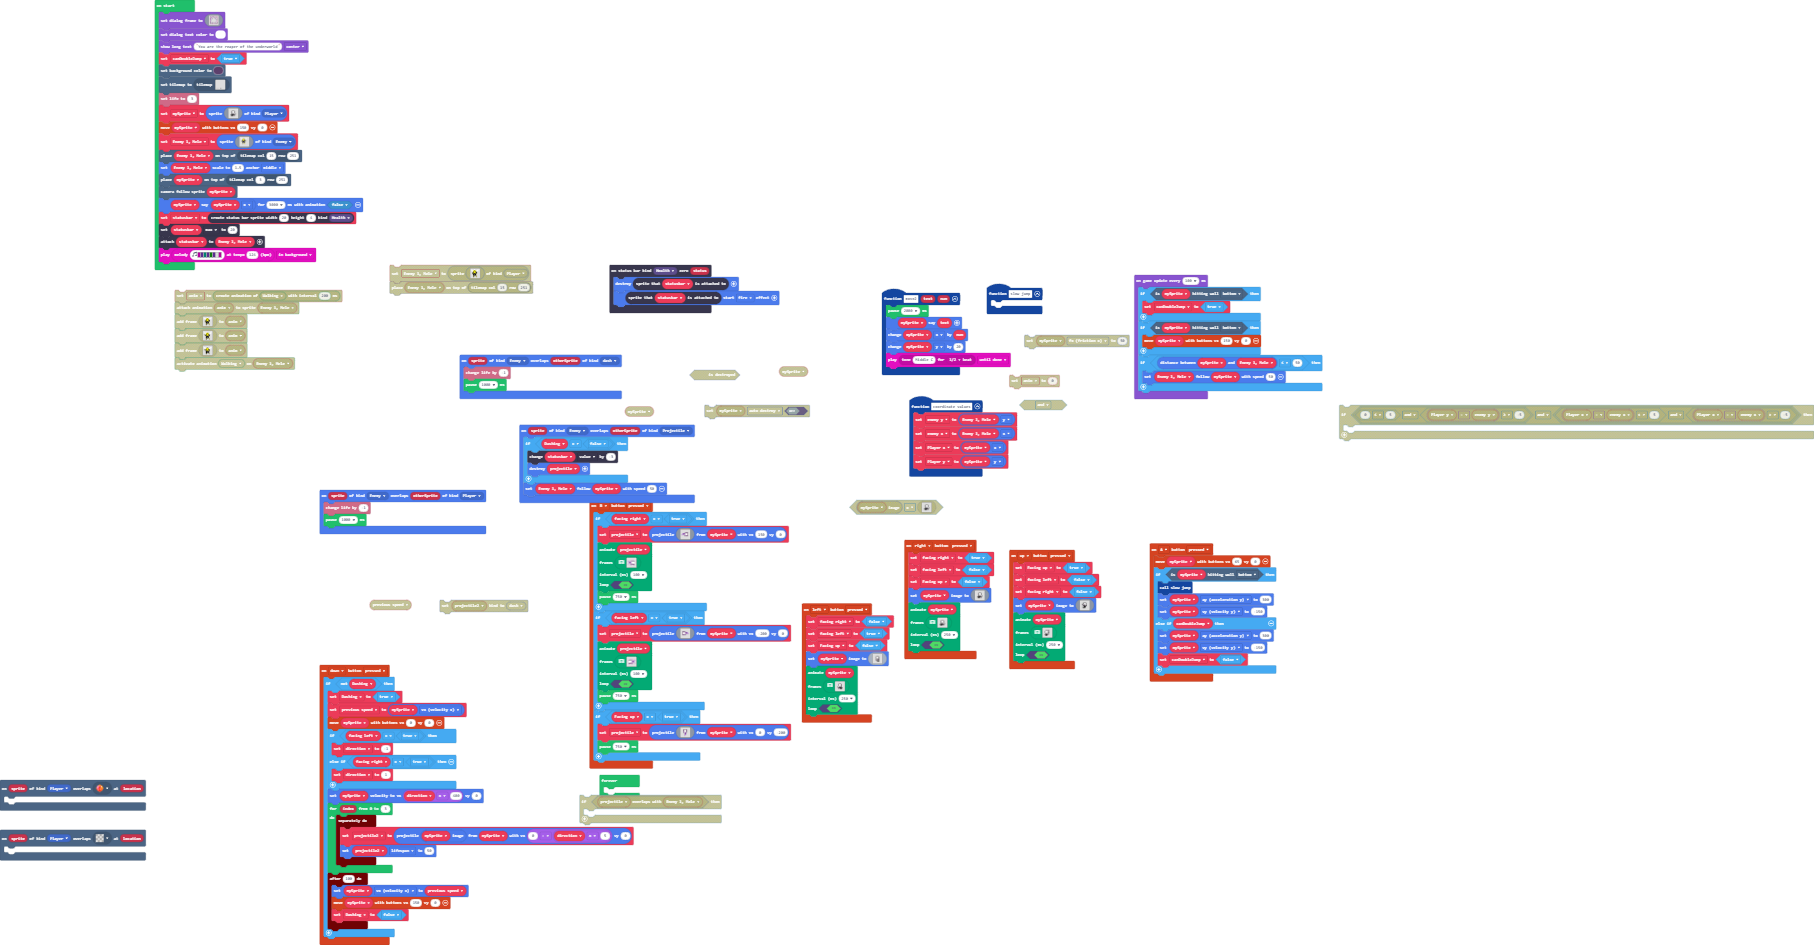
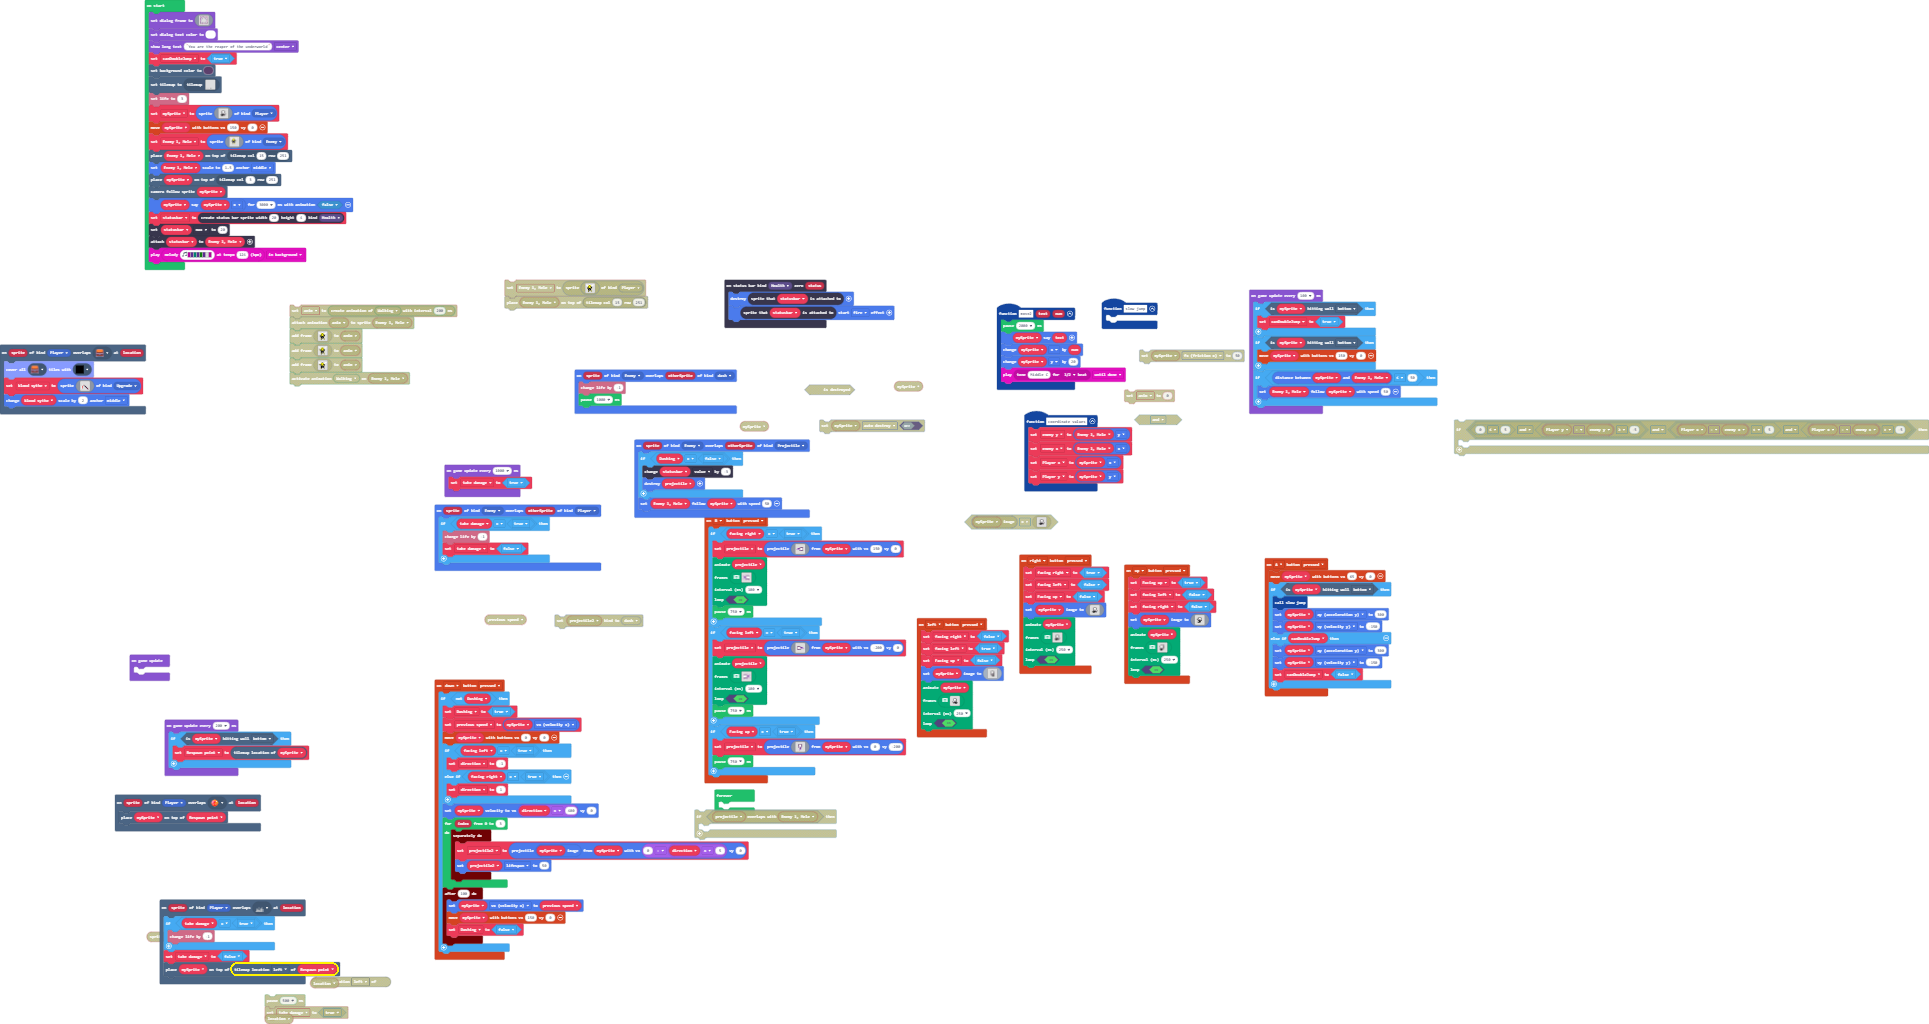
Update main.blocks, main.ts

Changed region(s): [[0.0, 0.0, 1.0, 1.0], [0.0617, 0.6138, 0.0926, 0.6751]]

diff --git a/main.ts b/main.ts
@@ -5,7 +5,15 @@ enum ActionKind {
 }
 namespace SpriteKind {
     export const dash = SpriteKind.create()
+    export const Upgrade = SpriteKind.create()
 }
+scene.onOverlapTile(SpriteKind.Player, assets.tile`myTile0`, function (sprite, location) {
+    if (take_damage == true) {
+        info.changeLifeBy(-1)
+    }
+    take_damage = false
+    tiles.placeOnTile(mySprite, Respawn_point.getNeighboringLocation(CollisionDirection.Left))
+})
 controller.up.onEvent(ControllerButtonEvent.Pressed, function () {
     Facing_up = true
     facing_left = false
@@ -516,6 +524,28 @@ sprites.onOverlap(SpriteKind.Enemy, SpriteKind.Projectile, function (sprite, oth
     }
     Enemy_1_Mele.follow(mySprite, 50)
 })
+scene.onOverlapTile(SpriteKind.Player, sprites.dungeon.chestClosed, function (sprite, location) {
+    tileUtil.coverAllTiles(sprites.dungeon.chestClosed, sprites.builtin.forestTiles10)
+    blood_sythe = sprites.create(img`
+        . . . . . . . . . . . . . . . . 
+        . . . . . . . . . . . . . . . . 
+        . . . . . . . . . . . . . . . . 
+        . . . . . . . . . . . . . . . . 
+        . . . . 1 d . . . . . . . . . . 
+        . . . 1 d d d . . . . . . . . . 
+        . . 1 d d d d d . . . . . . . . 
+        . . d d 2 . d f b . . . . . . . 
+        . 1 d 2 . . . c f b . . . . . . 
+        . 1 d 2 . . . . c f b . . . . . 
+        . 1 2 . . . . . . c f b . . . . 
+        . 1 2 . . . . . . . c f b . . . 
+        . 1 2 . . . . . . . . c f b . . 
+        . 1 . . . . . . . . . . c 2 b . 
+        . . . . . . . . . . . . . c c . 
+        . . . . . . . . . . . . . . . . 
+        `, SpriteKind.Upgrade)
+    blood_sythe.changeScale(2, ScaleAnchor.Middle)
+})
 statusbars.onZero(StatusBarKind.Health, function (status) {
     sprites.destroy(statusbar.spriteAttachedTo())
     statusbar.spriteAttachedTo().startEffect(effects.fire)
@@ -658,8 +688,10 @@ controller.right.onEvent(ControllerButtonEvent.Pressed, function () {
     )
 })
 sprites.onOverlap(SpriteKind.Enemy, SpriteKind.Player, function (sprite, otherSprite) {
-    info.changeLifeBy(-1)
-    pause(1000)
+    if (take_damage == true) {
+        info.changeLifeBy(-1)
+        take_damage = false
+    }
 })
 function slow_jump () {
 	
@@ -694,11 +726,8 @@ function coordinate_values () {
     Player_x = mySprite.x
     Player_y = mySprite.y
 }
-scene.onOverlapTile(SpriteKind.Player, assets.tile`transparency16`, function (sprite, location) {
-	
-})
 scene.onOverlapTile(SpriteKind.Player, sprites.dungeon.collectibleRedCrystal, function (sprite, location) {
-	
+    tiles.placeOnTile(mySprite, Respawn_point)
 })
 function move2 (text: string, num: number) {
     pause(2000)
@@ -714,11 +743,14 @@ let enemy_y = 0
 let projectile2: Sprite = null
 let direction = 0
 let previous_speed = 0
+let blood_sythe: Sprite = null
 let Dashing = false
 let projectile: Sprite = null
 let facing_right = false
 let facing_left = false
 let Facing_up = false
+let Respawn_point: tiles.Location = null
+let take_damage = false
 let statusbar: StatusBarSprite = null
 let Enemy_1_Mele: Sprite = null
 let mySprite: Sprite = null
@@ -780,6 +812,12 @@ statusbar = statusbars.create(20, 4, StatusBarKind.Health)
 statusbar.max = 20
 statusbar.attachToSprite(Enemy_1_Mele)
 music.play(music.stringPlayable("C D F D G D - C ", 124), music.PlaybackMode.InBackground)
+game.onUpdate(function () {
+	
+})
+game.onUpdateInterval(1000, function () {
+    take_damage = true
+})
 forever(function () {
 	
 })
@@ -792,5 +830,10 @@ game.onUpdateInterval(100, function () {
     }
     if (spriteutils.distanceBetween(mySprite, Enemy_1_Mele) <= 50) {
         Enemy_1_Mele.follow(mySprite, 50)
+    }
+})
+game.onUpdateInterval(200, function () {
+    if (mySprite.isHittingTile(CollisionDirection.Bottom)) {
+        Respawn_point = mySprite.tilemapLocation()
     }
 })
